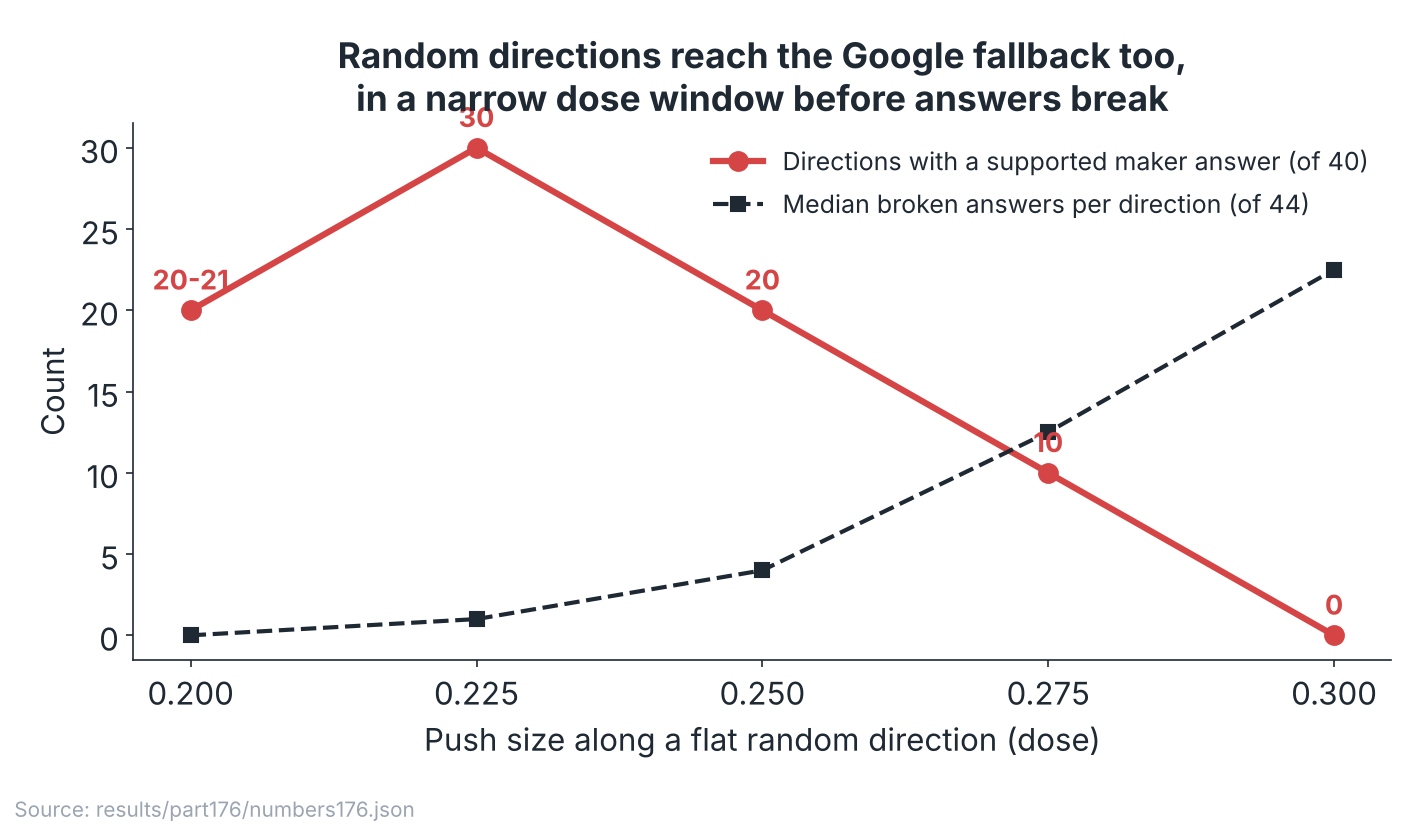
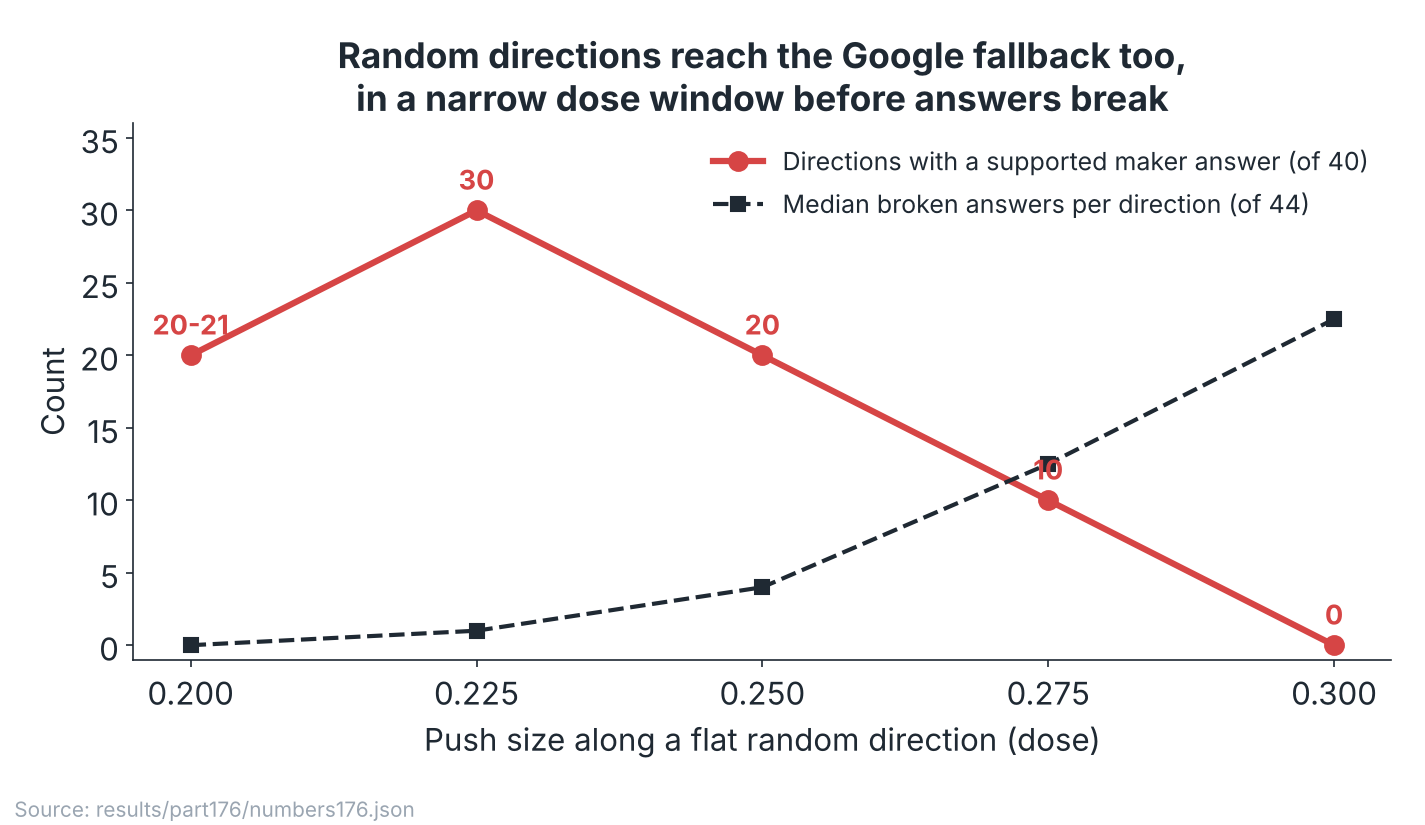
Front-page draft: activity-matched controls, first words after a flip, figure layout
Claude-Session: https://claude.ai/code/session_01EuLJihN6KWmvdbNfRVejMR

diff --git a/docs/frontpage-draft/make_figures.py b/docs/frontpage-draft/make_figures.py
@@ -92,6 +92,7 @@ def fig2():
                     ha="center", fontsize=13, fontweight="bold", color=ACCENT)
     ax.set_xlabel("Push size along a flat random direction (dose)")
     ax.set_ylabel("Count")
+    ax.set_ylim(-1, den * 0.9)
     ax.set_xticks(doses)
     ax.legend(fontsize=12, frameon=False, loc="upper right")
     ax.set_title("Random directions reach the Google fallback too,\nin a narrow dose window before answers break")
@@ -269,6 +270,7 @@ def fig8():
     ax.set_xlabel("Neurons zeroed (k, log scale)")
     ax.set_ylabel(f"Held-out phrasings where \"Q\"\nis no longer first (of {n})")
     ax.set_ylim(-1, n + 2)
+    ax.set_yticks(range(0, n + 1, 4))
     ax.legend(frameon=False, fontsize=12, loc="upper left")
     ax.set_title("No small group holds the forced \"I am **Q\" answer:\n0 flips up to 50 neurons, all 16 at 500")
     save(fig, "f8-q-token-zeroing.png", src)

diff --git a/docs/frontpage-draft/README-draft.md b/docs/frontpage-draft/README-draft.md
@@ -67,6 +67,7 @@ by the test that answers it.
 - [8b. Is the zeroing hook itself changing the answer?](#8b-is-the-zeroing-hook-itself-changing-the-answer)
 - [8c. Were the candidates chosen on the test phrasings?](#8c-were-the-candidates-chosen-on-the-test-phrasings)
 - [8d. Is it the kernel?](#8d-is-it-the-kernel)
+- [8e. When "Q" loses first place, does the model stop naming itself?](#8e-when-q-loses-first-place-does-the-model-stop-naming-itself)
 
 **[What we got wrong, withdrew or withheld](#what-we-got-wrong-withdrew-or-withheld)** ·
 **[Known limits](#known-limits)** · **[Left off this page](#left-off-this-page)**
@@ -299,7 +300,8 @@ neurons flips the "Q" token [0 of 16](../../results/part115/score.json) times; t
 [`part115/score115.py`](../../part115/score115.py)).
 
 ### 8a. Do random groups of the same size do it?
-No. Ten random sets at every size flipped [0 of 16](../../results/part115/score.json) phrasings, up to 500 neurons.
+No. Ten activity-matched random sets at each of the nine sizes (90 sets) flipped
+[0 of 16](../../results/part115/score.json) phrasings, up to 500 neurons.
 
 ### 8b. Is the zeroing hook itself changing the answer?
 A do-nothing mask of ones is bit-identical to the plain model (gate `ones_mask_bit_identical`,
@@ -314,6 +316,12 @@ is described in the Part 114 README; this draft did not re-derive it.
 ### 8d. Is it the kernel?
 This is a single forward pass on a forced opening, not generation; the known-issue note says single forward passes
 matched the CPU reference at confident positions.
+
+### 8e. When "Q" loses first place, does the model stop naming itself?
+Often not. The first words of the flipped continuations ([`first_words`](../../results/part115/score.json)): at 100
+neurons, Tongyi, Yi and GPT; at 200, Tongyi 9, Yi 1 and LLM 1 of 11, so mostly Alibaba's other name for the model; only
+at 500 do generic words take over (AI 10, ChatBot 4, Chat 1, DeepSeek 1 of 16). Scope: one model, one forced opening,
+16 phrasings.
 
 ---
 
